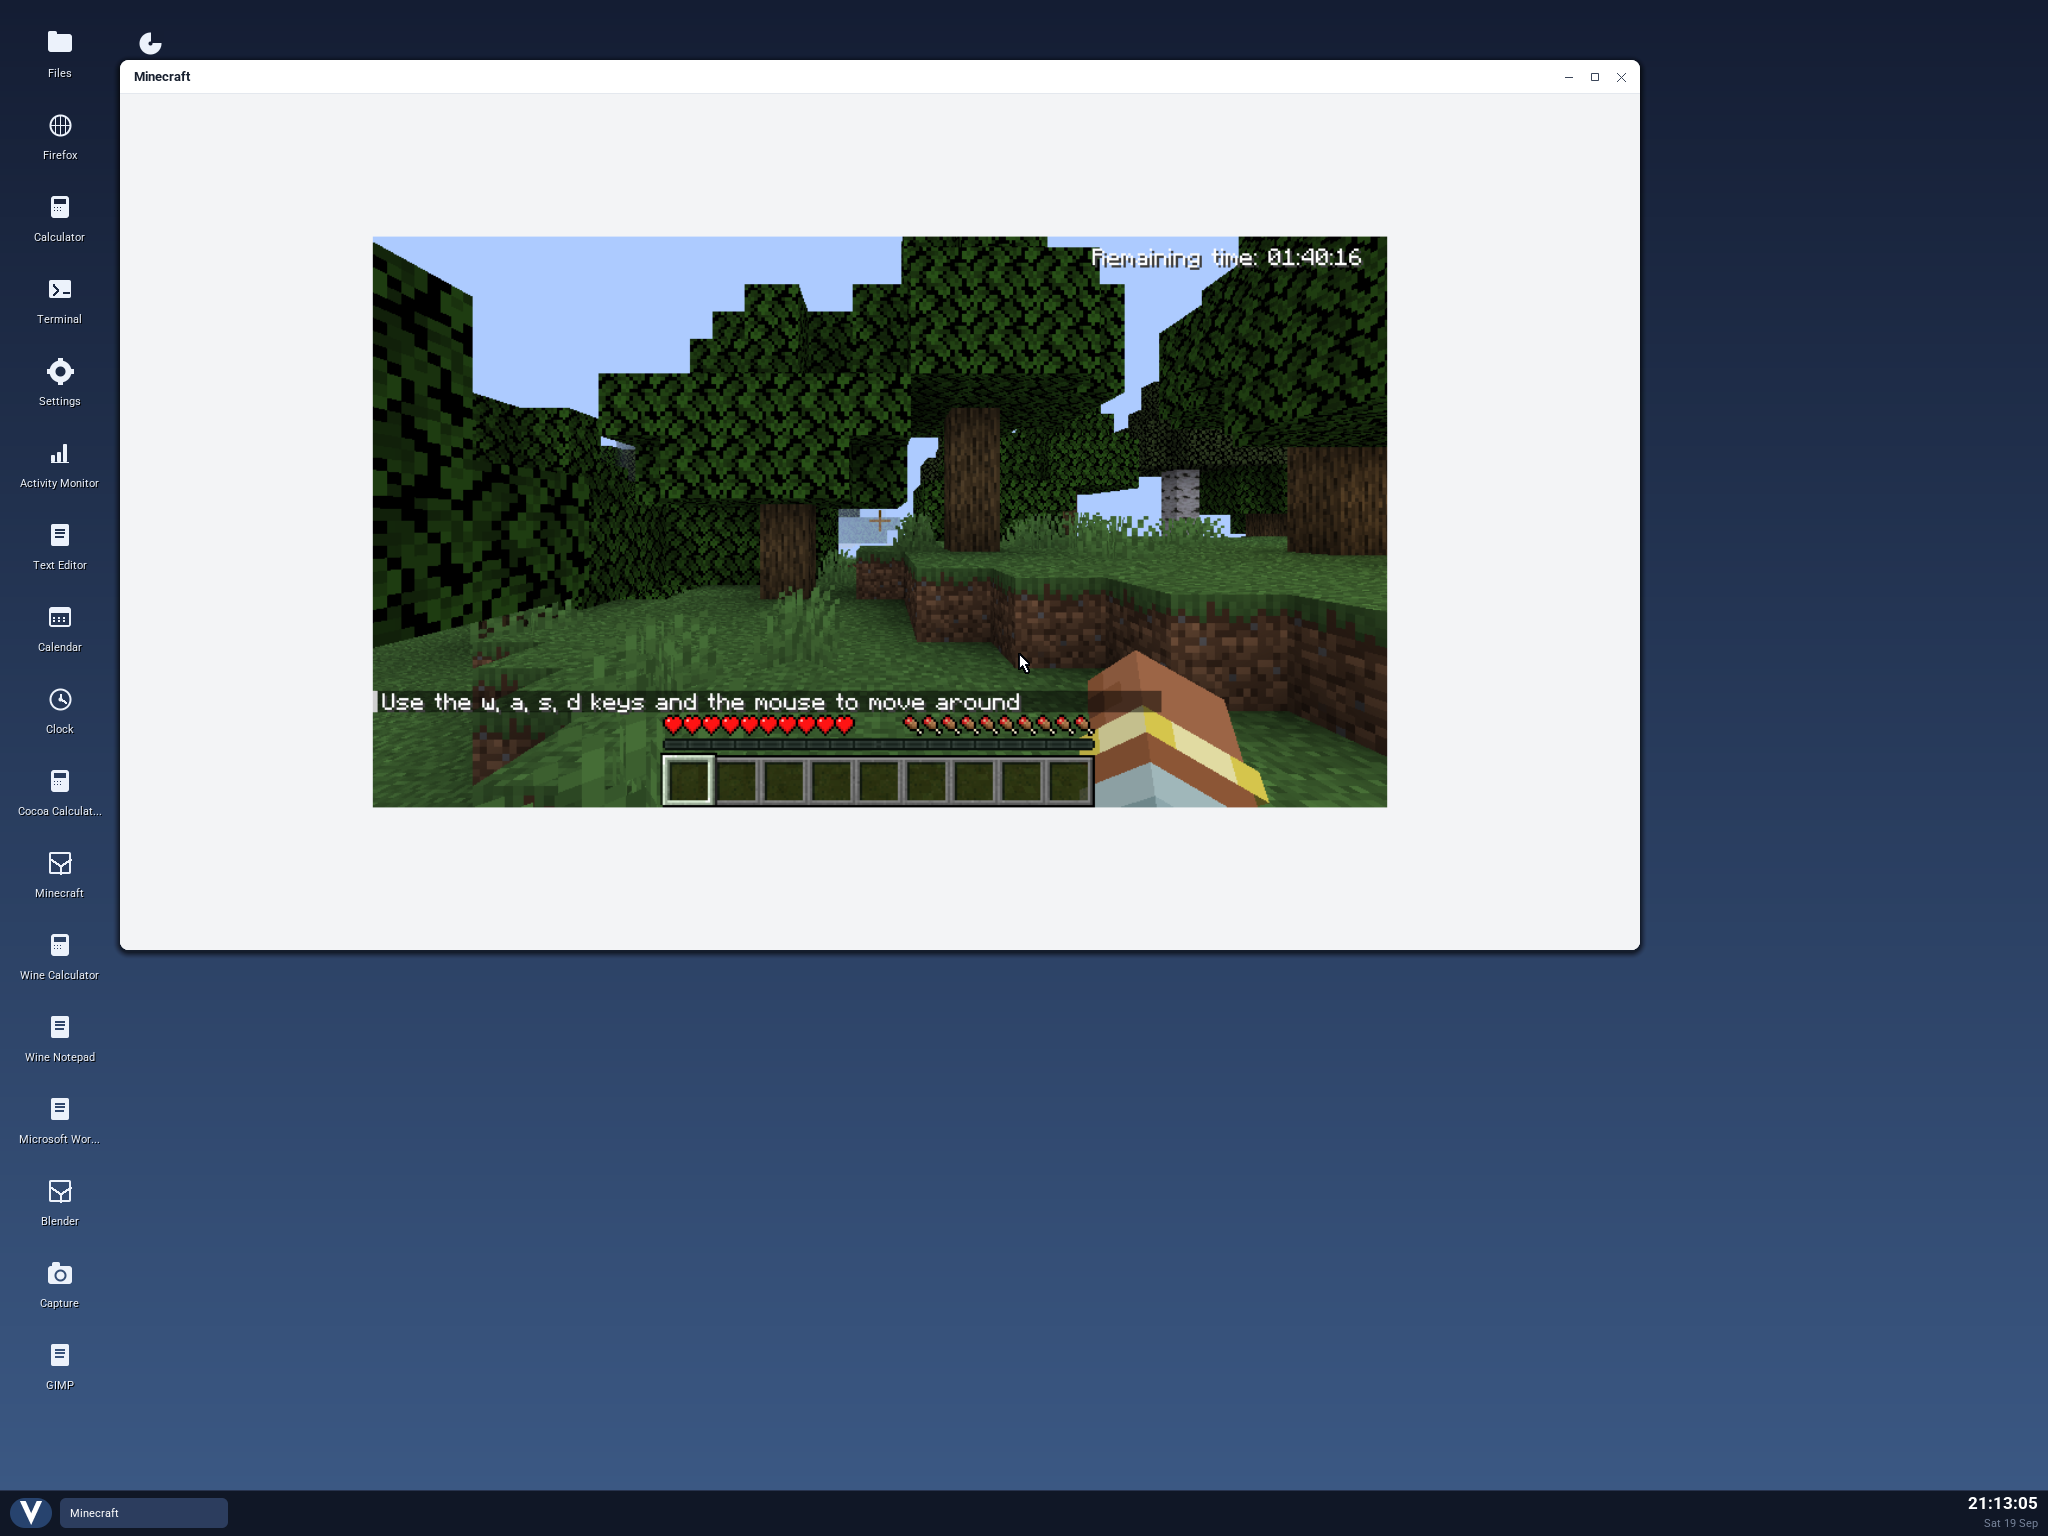
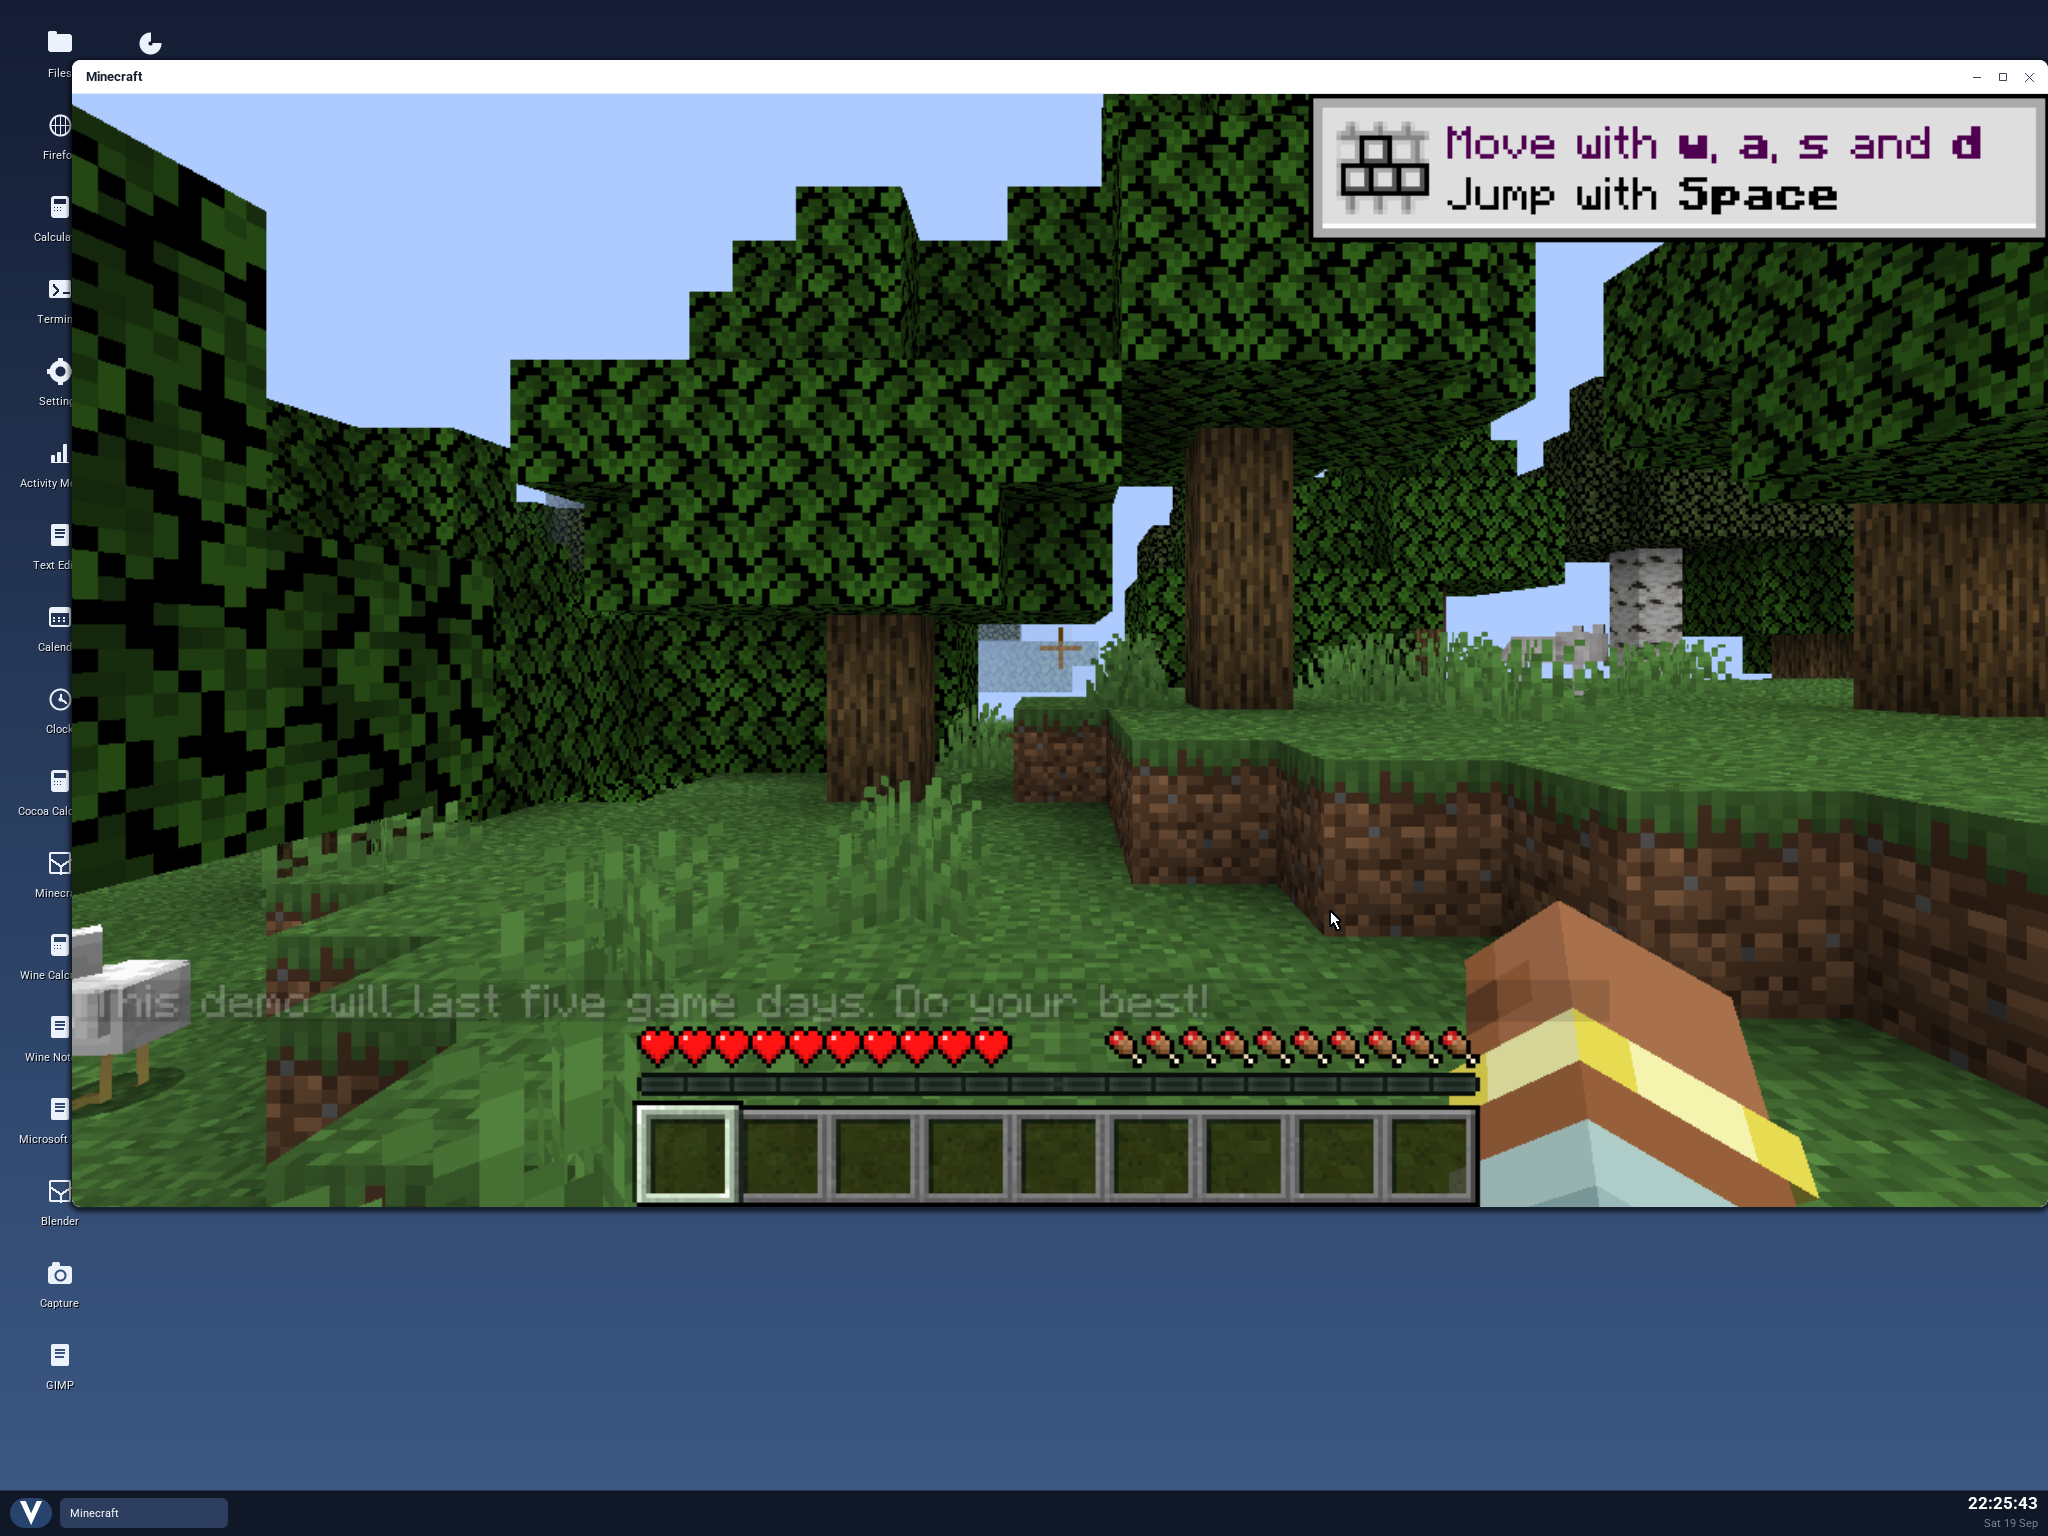
fix: fill enlarged Minecraft window

diff --git a/tests/minecraft/test-fetcher.py b/tests/minecraft/test-fetcher.py
@@ -7,6 +7,7 @@ import hashlib
 import importlib.util
 import json
 from pathlib import Path
+import tempfile
 import unittest
 from unittest.mock import patch
 
@@ -68,6 +69,47 @@ class VersionSelectionTests(unittest.TestCase):
         with patch.object(fetch_minecraft, "fetch", self.fake_fetch):
             with self.assertRaisesRegex(SystemExit, "needs Java 25"):
                 fetch_minecraft.resolve_version("26.2", 21)
+
+    def test_launch_description_requests_the_host_resolution(self) -> None:
+        version = {
+            "type": "release",
+            "mainClass": "net.minecraft.client.main.Main",
+            "javaVersion": {"majorVersion": 21},
+            "arguments": {
+                "game": [
+                    {
+                        "rules": [
+                            {
+                                "action": "allow",
+                                "features": {"has_custom_resolution": True},
+                            }
+                        ],
+                        "value": [
+                            "--width",
+                            "${resolution_width}",
+                            "--height",
+                            "${resolution_height}",
+                        ],
+                    }
+                ]
+            },
+        }
+        with tempfile.TemporaryDirectory() as directory:
+            destination = Path(directory) / "launch.env"
+            fetch_minecraft.write_launch_env(
+                destination,
+                version_id="1.21.5",
+                version=version,
+                classpath=[],
+                asset_index="17",
+                game_root="/usr/share/minecraft",
+            )
+            launch_env = destination.read_text()
+
+        self.assertIn(
+            "--width ${resolution_width} --height ${resolution_height}",
+            launch_env,
+        )
 
 
 if __name__ == "__main__":

diff --git a/build-support/minecraft/fetch-minecraft.py b/build-support/minecraft/fetch-minecraft.py
@@ -315,11 +315,18 @@ def write_launch_env(
             continue
         filtered.append(argument)
 
+    # Mojang guards --width/--height behind this launcher feature. Without it,
+    # GLFW creates its 854x480 default window in the middle of Vinix's
+    # 1280x720 Xvfb surface, leaving a large white border in the native host
+    # window. Advertise the custom resolution that run-minecraft already
+    # expands so the official client occupies the complete hosted surface.
     demo_arguments = flatten_arguments(
-        version.get("arguments", {}).get("game", []), {"is_demo_user": True}
+        version.get("arguments", {}).get("game", []),
+        {"is_demo_user": True, "has_custom_resolution": True},
     )
     full_arguments = flatten_arguments(
-        version.get("arguments", {}).get("game", []), {"is_demo_user": False}
+        version.get("arguments", {}).get("game", []),
+        {"is_demo_user": False, "has_custom_resolution": True},
     )
 
     lines = [
